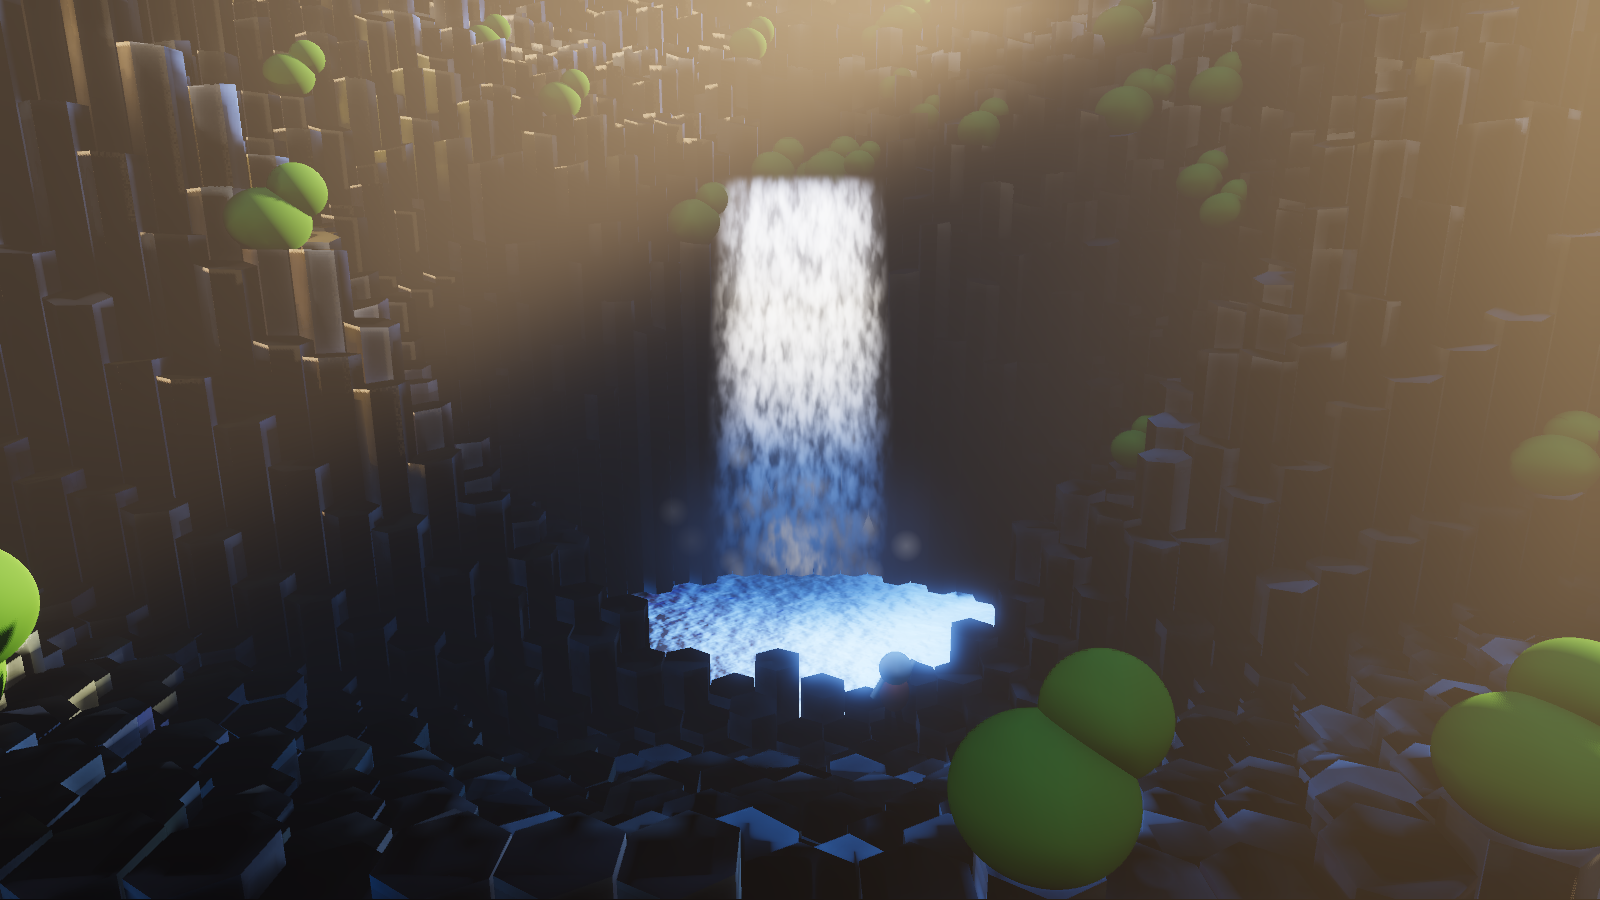
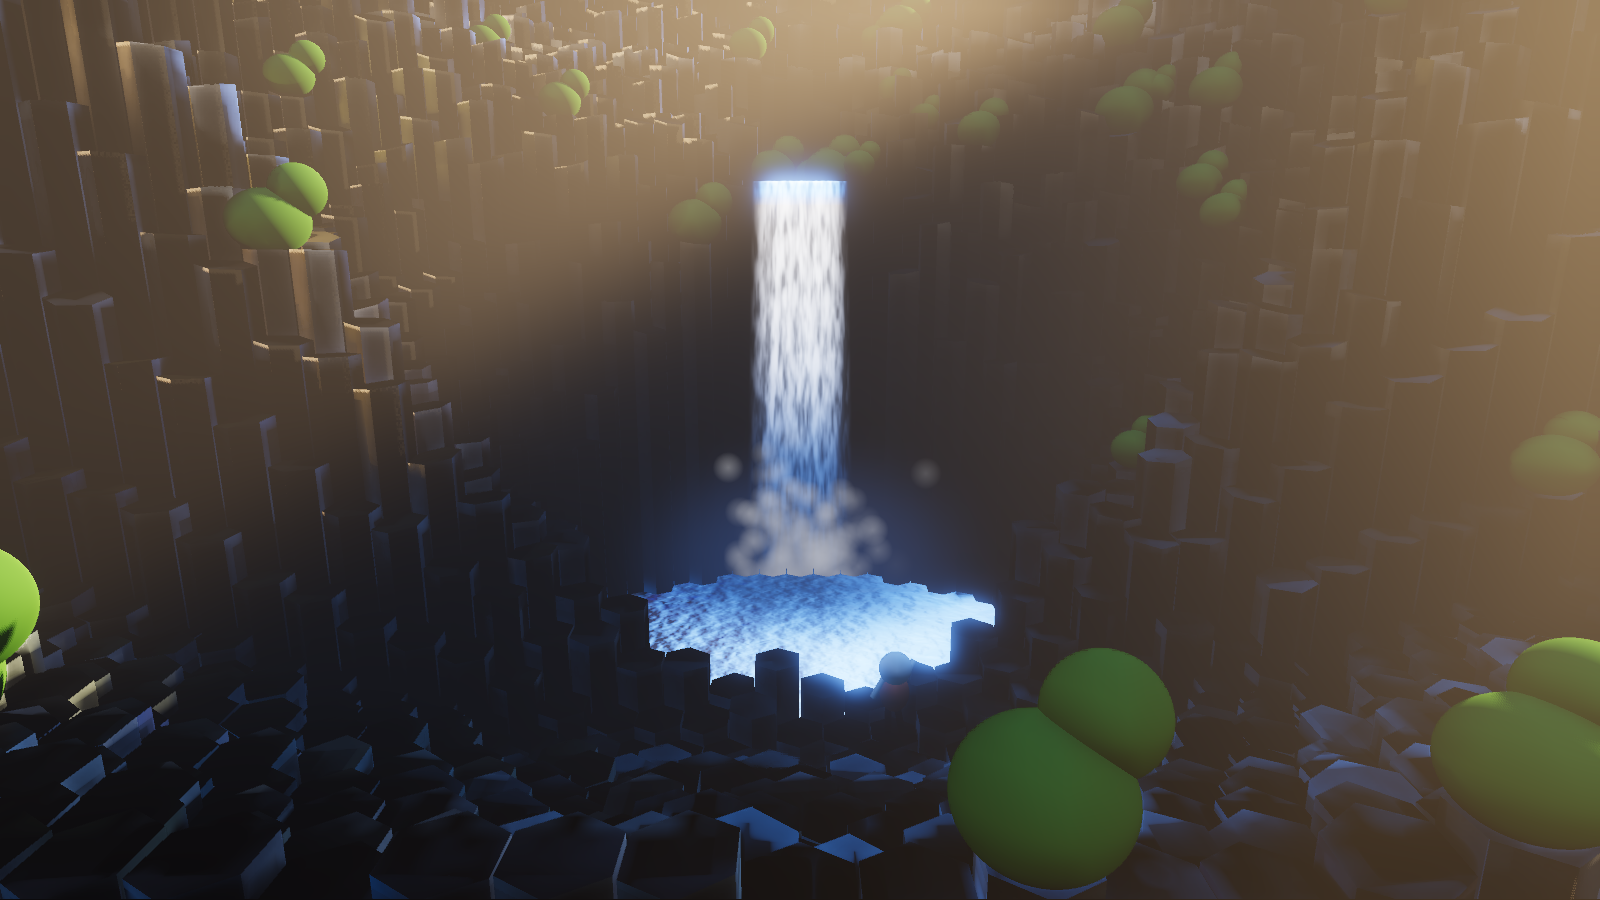
spike(inpc): continuous waterfall with splash; record the Godot decision

Changed region(s): [[0.4062, 0.1556, 0.5938, 0.7467], [0.5, 0.7467, 0.5312, 0.7778]]

diff --git a/docs/inpc/ideas.md b/docs/inpc/ideas.md
@@ -84,6 +84,11 @@
   - 다섯 가지 모두 꼭 들어가야 한다(사용자).
   - 낚시는 물이 생기면 바로 붙일 수 있어서 첫 버전 끝자락 후보다.
   - 스키, 비행은 두 번째 버전으로 넘긴다.
+- **2026-11-23 — 절경 맵은 실사가 아니라 "다듬은 그림체"로 간다. 엔진은 Godot 4로 확정.**
+  - 매끄러움과 질감은 에셋 작업으로 채운다.
+    - 블렌더: 바위 모양, 노멀맵, 캐릭터
+    - 힉스필드 같은 생성 도구: 질감 이미지, 분위기 그림, 하늘 배경
+  - 시험 장면으로 조명과 공기감은 Godot으로 충분하다는 것을 확인했다.
 
 ## 시험 기록
 
@@ -104,6 +109,10 @@
 - 차이의 대부분은 엔진보다 에셋에서 나온다. 조각한 바위, 실사 질감, 풀과 나무, 물보라 입자, 소리가 없다.
 - 이 장면은 "아름답게 꾸민 그림체" 쪽이다. 사진 같은 사실감은 아니다.
 
+**사용자 피드백과 수정 (같은 날)**
+- 폭포가 웅덩이와 맞닿는 부분이 잘려 보였다. 물보라 입자를 넣고, 수면 거품 위치를 실제로 물이 떨어지는 곳으로 맞췄다.
+- 물이 시작되는 위쪽이 끊긴 곳에서 쏟아지는 느낌이었다. 물이 나오는 바닥을 평평하게 하고, 물줄기가 수평으로 흐르다 둥근 모서리를 넘어 떨어지는 하나의 면이 되게 바꿨다.
+
 **성능**
 - 이 PC(Intel Iris Xe 내장 그래픽)에서 1600×900, 최고 화질로 초당 12~15프레임이 나왔다.
 - 화질 1·2단계는 더 가볍다.
@@ -112,7 +121,9 @@
 ## 열린 질문
 
 - ~~블록 세계가 마인크래프트처럼 보이지 않게 하려면?~~ → 픽셀 블록으로 결정(2026-11-23).
-- 절경 맵의 "언리얼급" 화면을 Godot으로 낼 수 있을까? (2026-11-23 논의 중)
+- ~~절경 맵의 "언리얼급" 화면을 Godot으로 낼 수 있을까?~~
+  - 2026-11-23 사용자: 실사까지는 원하지 않는다. 부분부분 더 매끄럽게, 질감은 더 좋게 하고 싶다.
+  - 그래서 절경 맵도 Godot으로 간다(결정 칸 참고).
   - 엔진: 마인크래프트는 상용 엔진 없이 자체 엔진이다. Java판은 Java와 LWJGL, Bedrock판은 C++이다.
   - HANGBAR와 INPC는 Godot 4(C#)로 가고 있다.
   - Claude 메모: M0 오버레이는 투명 창 때문에 Compatibility 렌더러를 쓴다. 고품질 3D에는 Forward+ 렌더러가 필요하다.
